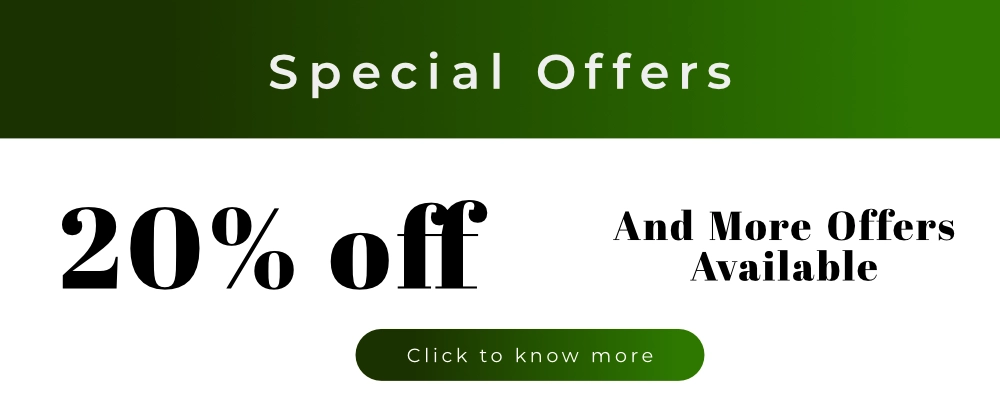
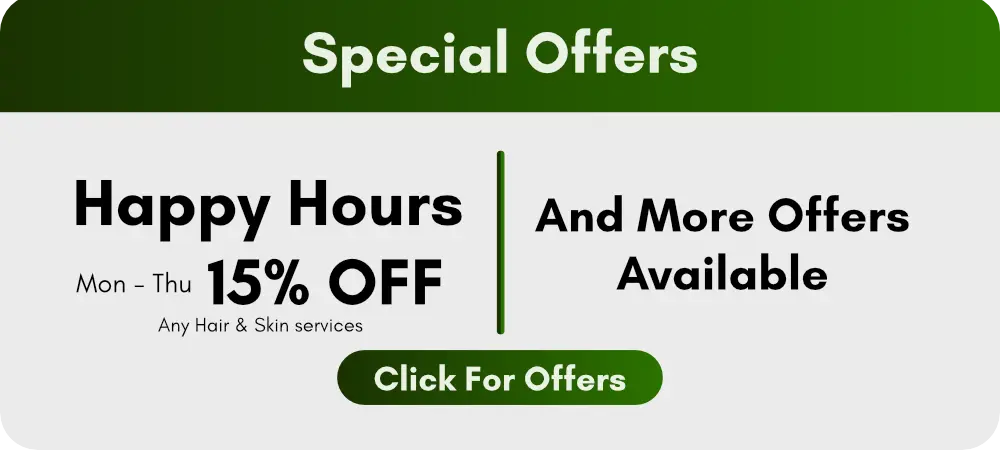
Offers edited

Changed region(s): [[0.0, 0.06, 1.0, 0.96], [0.961, 0.0, 1.0, 0.06], [0.0, 0.0, 0.031, 0.03]]

diff --git a/offers.html b/offers.html
@@ -251,6 +251,28 @@
                             <div class="w-slide">
                                 <div class="events-block">
                                     <div class="w-layout-grid _3-grids">
+                                        <div id="w-node-bd3eaa95-1edb-1710-069f-2cf1ef1c08c9-e9cc7957"
+                                            data-w-id="bd3eaa95-1edb-1710-069f-2cf1ef1c08c9" style="opacity:0"
+                                            class="card">
+                                            <div class="card-image-block margin-bottom-30px">
+                                                <div class="image-container"><img src="/assets/happy-hours.webp"
+                                                        loading="lazy"
+                                                        alt="Hair spa and Pedicure Offers at Sugarcoat salon Hennur road"
+                                                        class="image" /></div>
+                                                <div class="event-date-block">
+                                                    <div class="event-date">15 jun</div>
+                                                </div>
+                                            </div>
+                                            <div class="card-content-block">
+                                                <div class="card-title margin-bottom-10px">Happy Hours Offer.
+                                                </div>
+                                                <p class="paragraph small-paragraph margin-bottom-20px">From Monday to
+                                                    Thursday, Get 15% Off on any Hair & SKin services</br>Salon
+                                                    Offers in Hennur Main Road,
+                                                    Bangalore
+                                                </p>
+                                            </div>
+                                        </div>
                                         <div id="w-node-bd3eaa95-1edb-1710-069f-2cf1ef1c08b7-e9cc7957"
                                             data-w-id="bd3eaa95-1edb-1710-069f-2cf1ef1c08b7" style="opacity:0"
                                             class="card">
@@ -327,32 +349,6 @@
                                             <a href="/services/facial-skin-care-hennur-road-bangalore"
                                                 class="paragraph small-paragraph menu-section-link">
                                                 Learn More About Facials and skin care
-                                            </a>
-                                        </div>
-                                        <div id="w-node-bd3eaa95-1edb-1710-069f-2cf1ef1c08c9-e9cc7957"
-                                            data-w-id="bd3eaa95-1edb-1710-069f-2cf1ef1c08c9" style="opacity:0"
-                                            class="card">
-                                            <div class="card-image-block margin-bottom-30px">
-                                                <div class="image-container"><img src="/assets/offers_04.webp"
-                                                        loading="lazy"
-                                                        alt="Hair spa and Pedicure Offers at Sugarcoat salon Hennur road"
-                                                        class="image" /></div>
-                                                <div class="event-date-block">
-                                                    <div class="event-date">15 jun</div>
-                                                </div>
-                                            </div>
-                                            <div class="card-content-block">
-                                                <div class="card-title margin-bottom-10px">Hairspa and Pedicure Offers.
-                                                </div>
-                                                <p class="paragraph small-paragraph margin-bottom-20px">Limited time
-                                                    Offers on Hair spa,
-                                                    Facials and Pedicures</br>Hair spa Offers in Hennur Main Road,
-                                                    Bangalore
-                                                </p>
-                                            </div>
-                                            <a href="/services/hair-spa-hennur-road-bangalore"
-                                                class="paragraph small-paragraph menu-section-link">
-                                                Learn More About Hair spa
                                             </a>
                                         </div>
                                         <div id="w-node-bd3eaa95-1edb-1710-069f-2cf1ef1c08c9-e9cc7957"